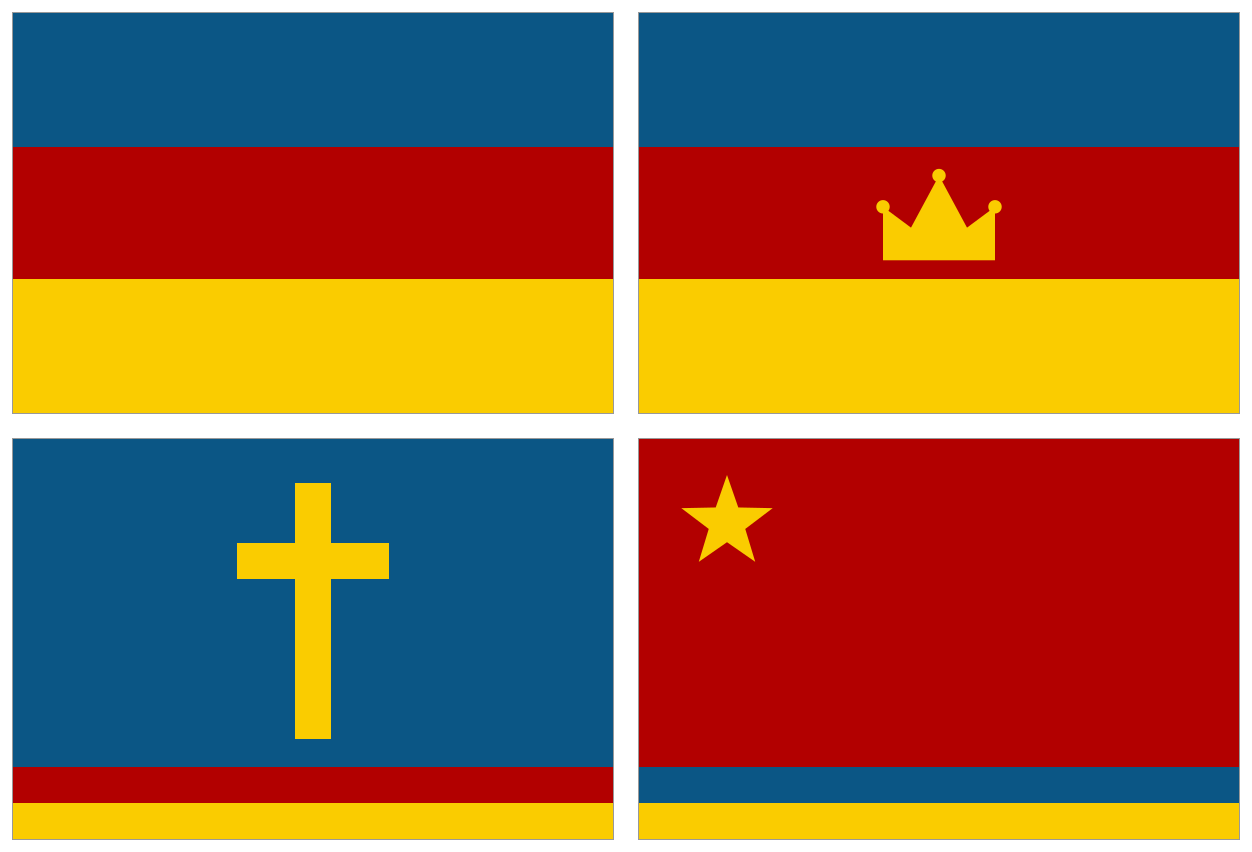
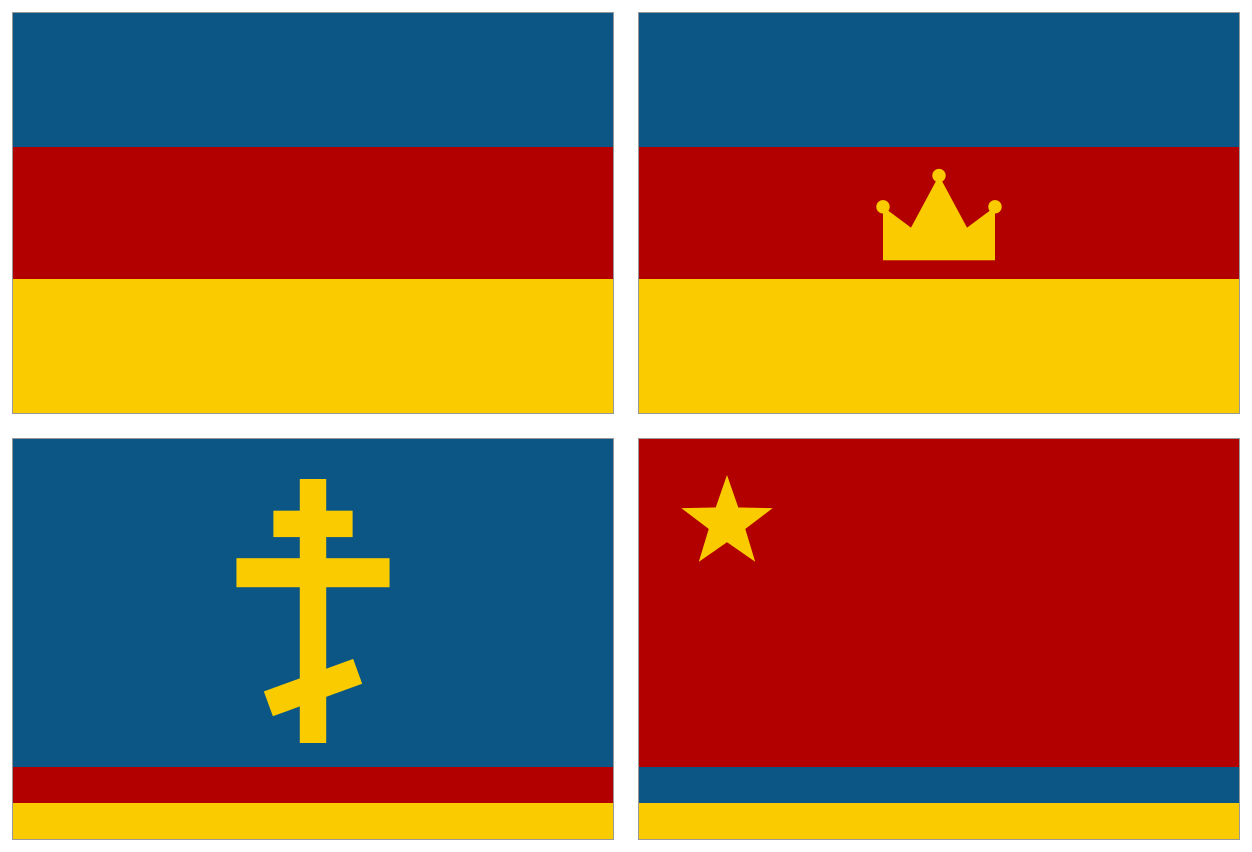
Panonia teokracja: krzyż trójbelkowy (unici)
Claude-Session: https://claude.ai/code/session_01PNyJEgjZDVeUSFrp2WbnmN

Changed region(s): [[0.1869, 0.5493, 0.3115, 0.885]]

diff --git a/gfx_koncepty/flagi_dacja/generuj_flagi.py b/gfx_koncepty/flagi_dacja/generuj_flagi.py
@@ -6,6 +6,14 @@ def star(cx,cy,r,col):
     p=[f"{cx+(r if i%2==0 else r*.4)*math.cos(math.radians(-90+i*36)):.2f},{cy+(r if i%2==0 else r*.4)*math.sin(math.radians(-90+i*36)):.2f}" for i in range(10)]
     return f'<polygon points="{" ".join(p)}" fill="{col}"/>'
 TRI=f'<rect width="300" height="67" fill="{B}"/><rect y="67" width="300" height="66" fill="{R}"/><rect y="133" width="300" height="67" fill="{Y}"/>'
+def krzyz_trojbelkowy(cx,top,h,col):
+    """Krzyż trójbelkowy obrządku wschodniego (unici): tabliczka, belka główna, skośny podnóżek."""
+    t=h*0.10; w1=h*0.30; w2=h*0.58; w3=h*0.36
+    y1=top+h*0.12; y2=top+h*0.30; y3=top+h*0.74
+    return (f'<rect x="{cx-t/2:.2f}" y="{top:.2f}" width="{t:.2f}" height="{h:.2f}" fill="{col}"/>'
+            f'<rect x="{cx-w1/2:.2f}" y="{y1:.2f}" width="{w1:.2f}" height="{t:.2f}" fill="{col}"/>'
+            f'<rect x="{cx-w2/2:.2f}" y="{y2:.2f}" width="{w2:.2f}" height="{t*1.1:.2f}" fill="{col}"/>'
+            f'<g transform="rotate(-20 {cx:.2f} {y3+t/2:.2f})"><rect x="{cx-w3/2:.2f}" y="{y3:.2f}" width="{w3:.2f}" height="{t:.2f}" fill="{col}"/></g>')
 def korona(cx,base,w,col):
     h=w*0.62
     pts=f'{cx-w/2},{base} {cx-w/2},{base-h*0.55} {cx-w/4},{base-h*0.25} {cx},{base-h} {cx+w/4},{base-h*0.25} {cx+w/2},{base-h*0.55} {cx+w/2},{base}'
@@ -17,9 +25,9 @@ F={
  'panonia_1_republika': svg(TRI),
  # Królestwo Panonii: ta sama trójbarwa, na czerwonym pasie złota korona
  'panonia_2_monarchia': svg(TRI+korona(150,116,56,Y)),
- # Teokracja katolicka (biskupi Timișoary, pod opieką papieża): błękit ze złotym krzyżem łacińskim, u dołu cienkie pasy czerwień i żółć
+ # Teokracja unicka (biskupi Timișoary w unii z Rzymem, obrządek wschodni): błękit ze złotym krzyżem trójbelkowym, u dołu cienkie pasy czerwień i żółć
  'panonia_3_teokracja': svg(f'<rect width="300" height="200" fill="{B}"/><rect y="164" width="300" height="18" fill="{R}"/><rect y="182" width="300" height="18" fill="{Y}"/>'
-                            f'<rect x="141" y="22" width="18" height="128" fill="{Y}"/><rect x="112" y="52" width="76" height="18" fill="{Y}"/>'),
+                            +krzyz_trojbelkowy(150,20,132,Y)),
  # Panonia rewolucyjna: czerwień, u dołu cienkie pasy błękit i żółć, złota gwiazda w rogu
  'panonia_4_rewolucja': svg(f'<rect width="300" height="200" fill="{R}"/><rect y="164" width="300" height="18" fill="{B}"/><rect y="182" width="300" height="18" fill="{Y}"/>'+star(44,42,24,Y)),
 }

diff --git a/gfx_koncepty/flagi_dacja/README.md b/gfx_koncepty/flagi_dacja/README.md
@@ -6,7 +6,7 @@ Płaskie flagi 3:2 (SVG 1536×1024) i podgląd PNG, generowane skryptem `generuj
 |---|---|
 | panonia_1_republika | Republika Panońska (katolicki zachód Dacji między Karpatami a Cisą, jeśli się oderwie): błękit, czerwień i żółć (wzór od autora moda) |
 | panonia_2_monarchia | Królestwo Panonii: trójbarwa, na czerwonym pasie złota korona |
-| panonia_3_teokracja | Teokracja katolicka (biskupi Timișoary pod opieką papieża): błękit ze złotym krzyżem łacińskim, u dołu cienkie pasy czerwień i żółć |
+| panonia_3_teokracja | Teokracja unicka (biskupi Timișoary w unii z Rzymem, obrządek wschodni): błękit ze złotym krzyżem trójbelkowym, u dołu cienkie pasy czerwień i żółć |
 | panonia_4_rewolucja | Panonia rewolucyjna: czerwień, złota gwiazda w rogu, u dołu cienkie pasy błękit i żółć |
 
 Podgląd: [panonia_arkusz.png](panonia_arkusz.png).
